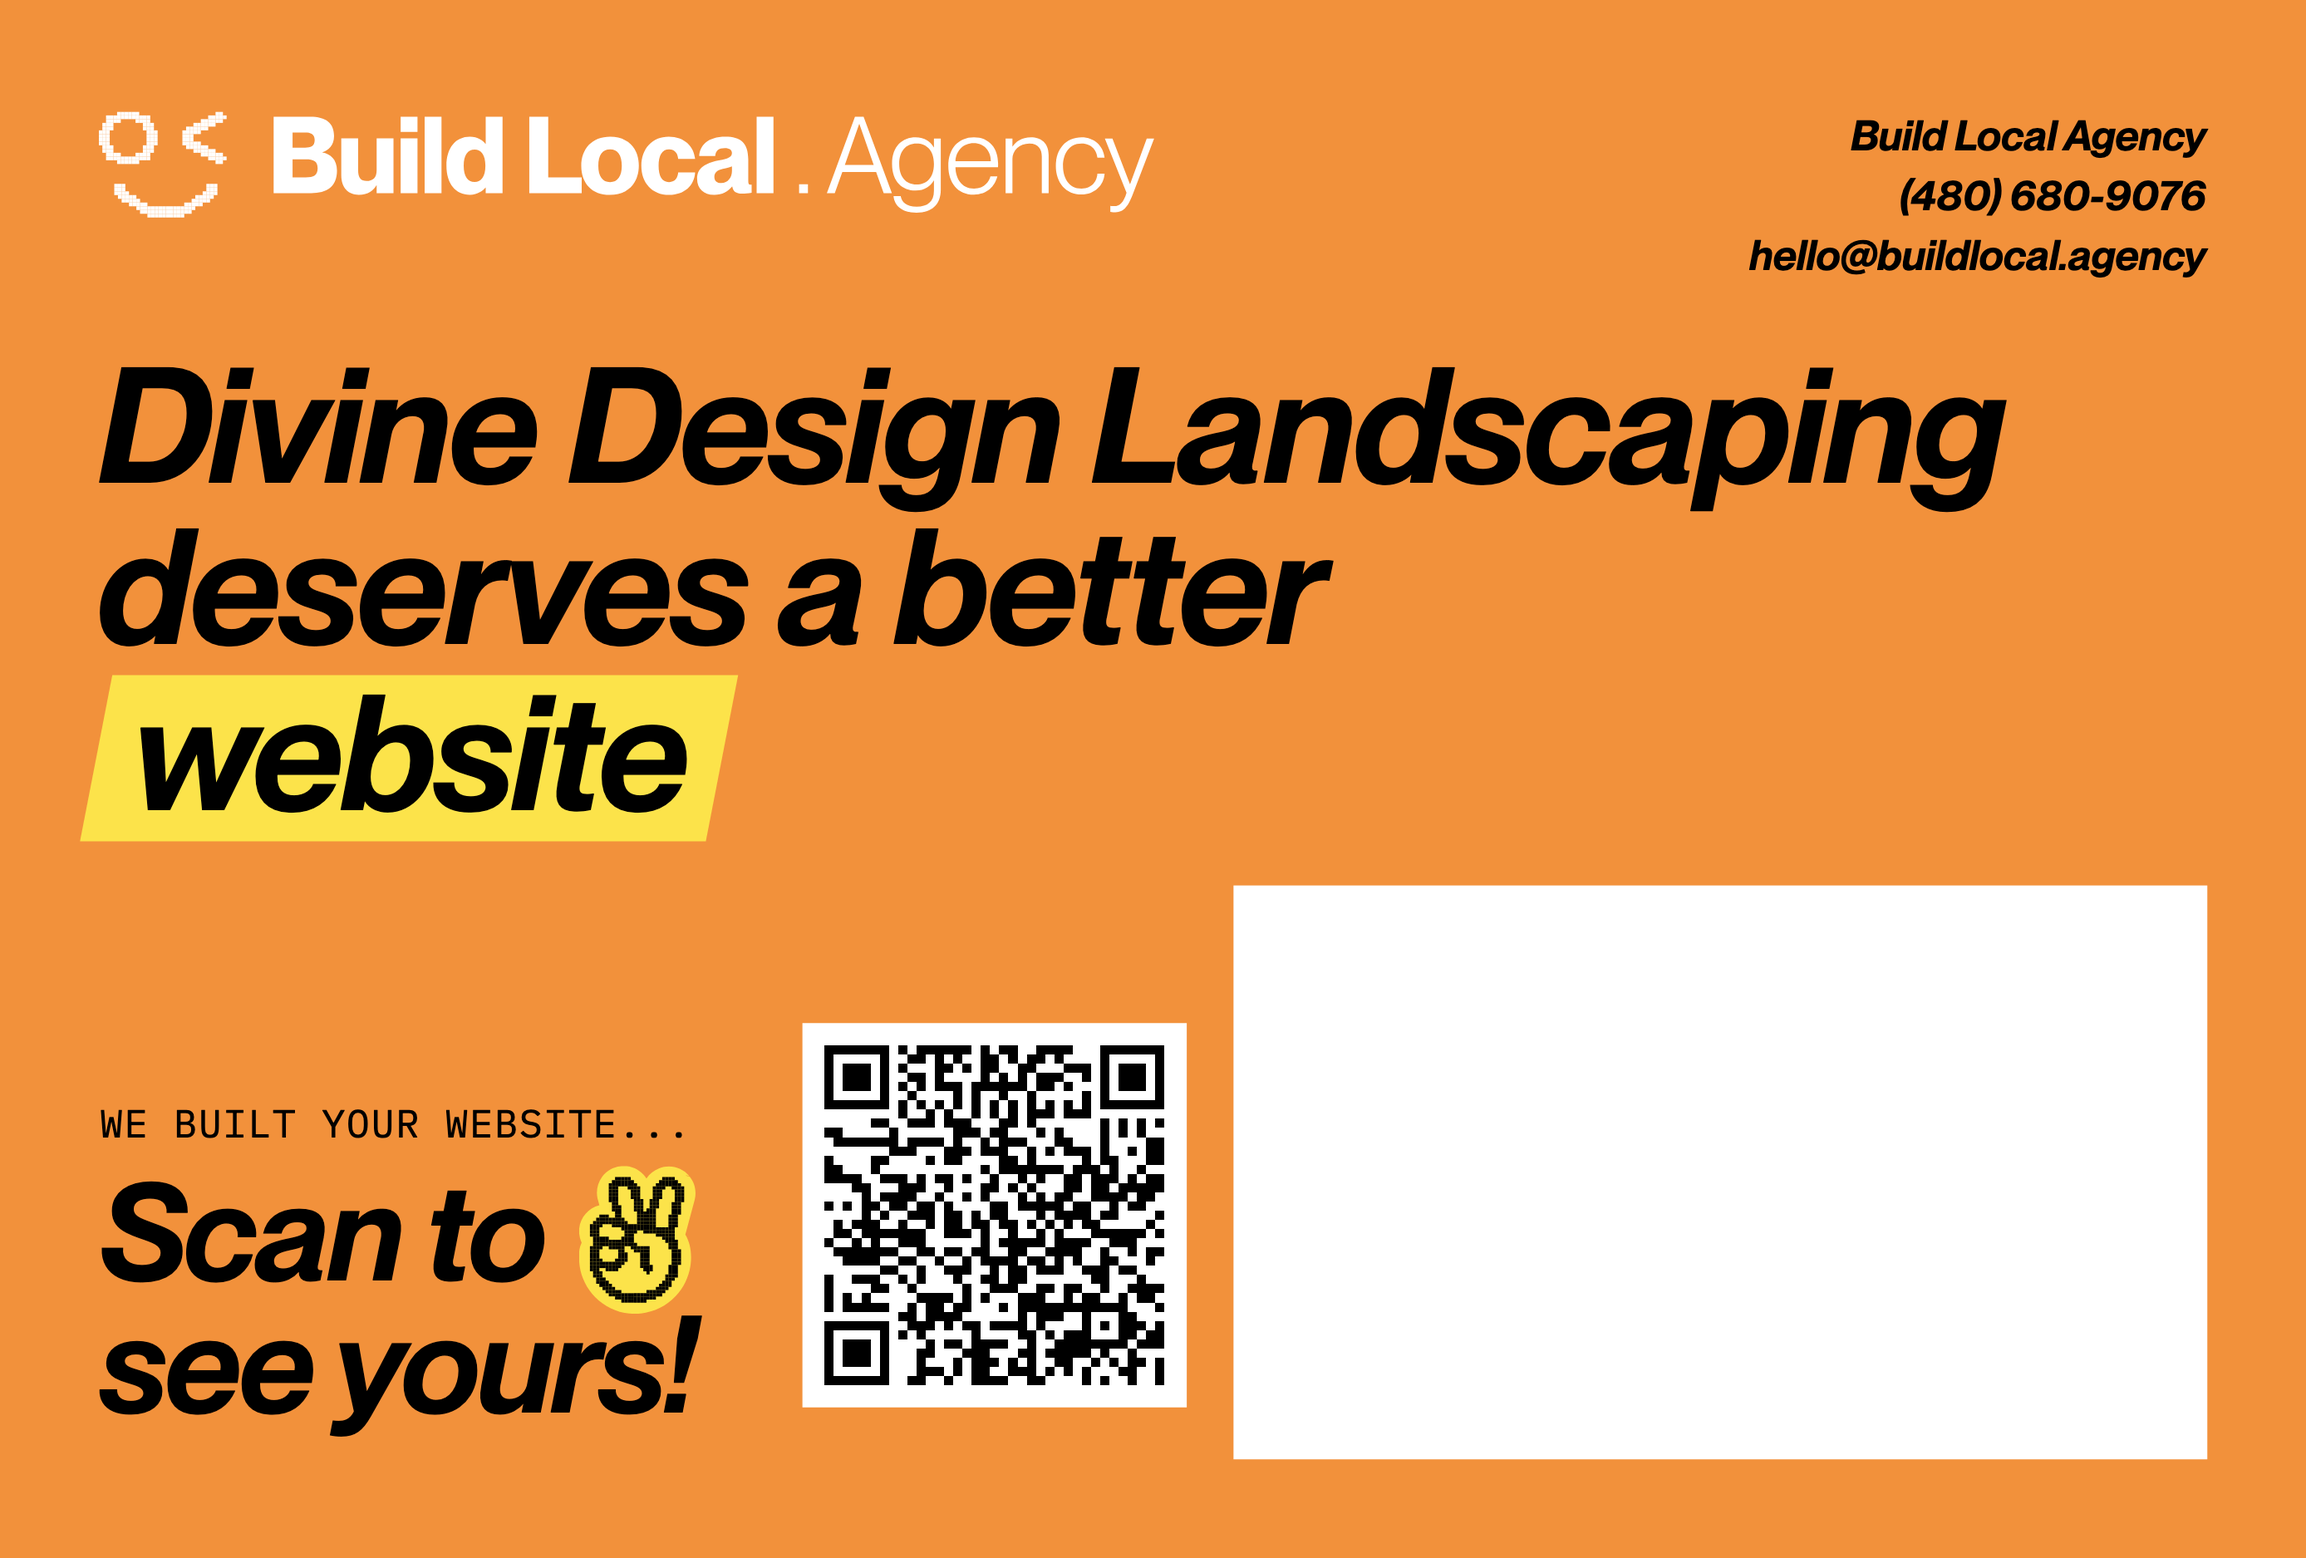
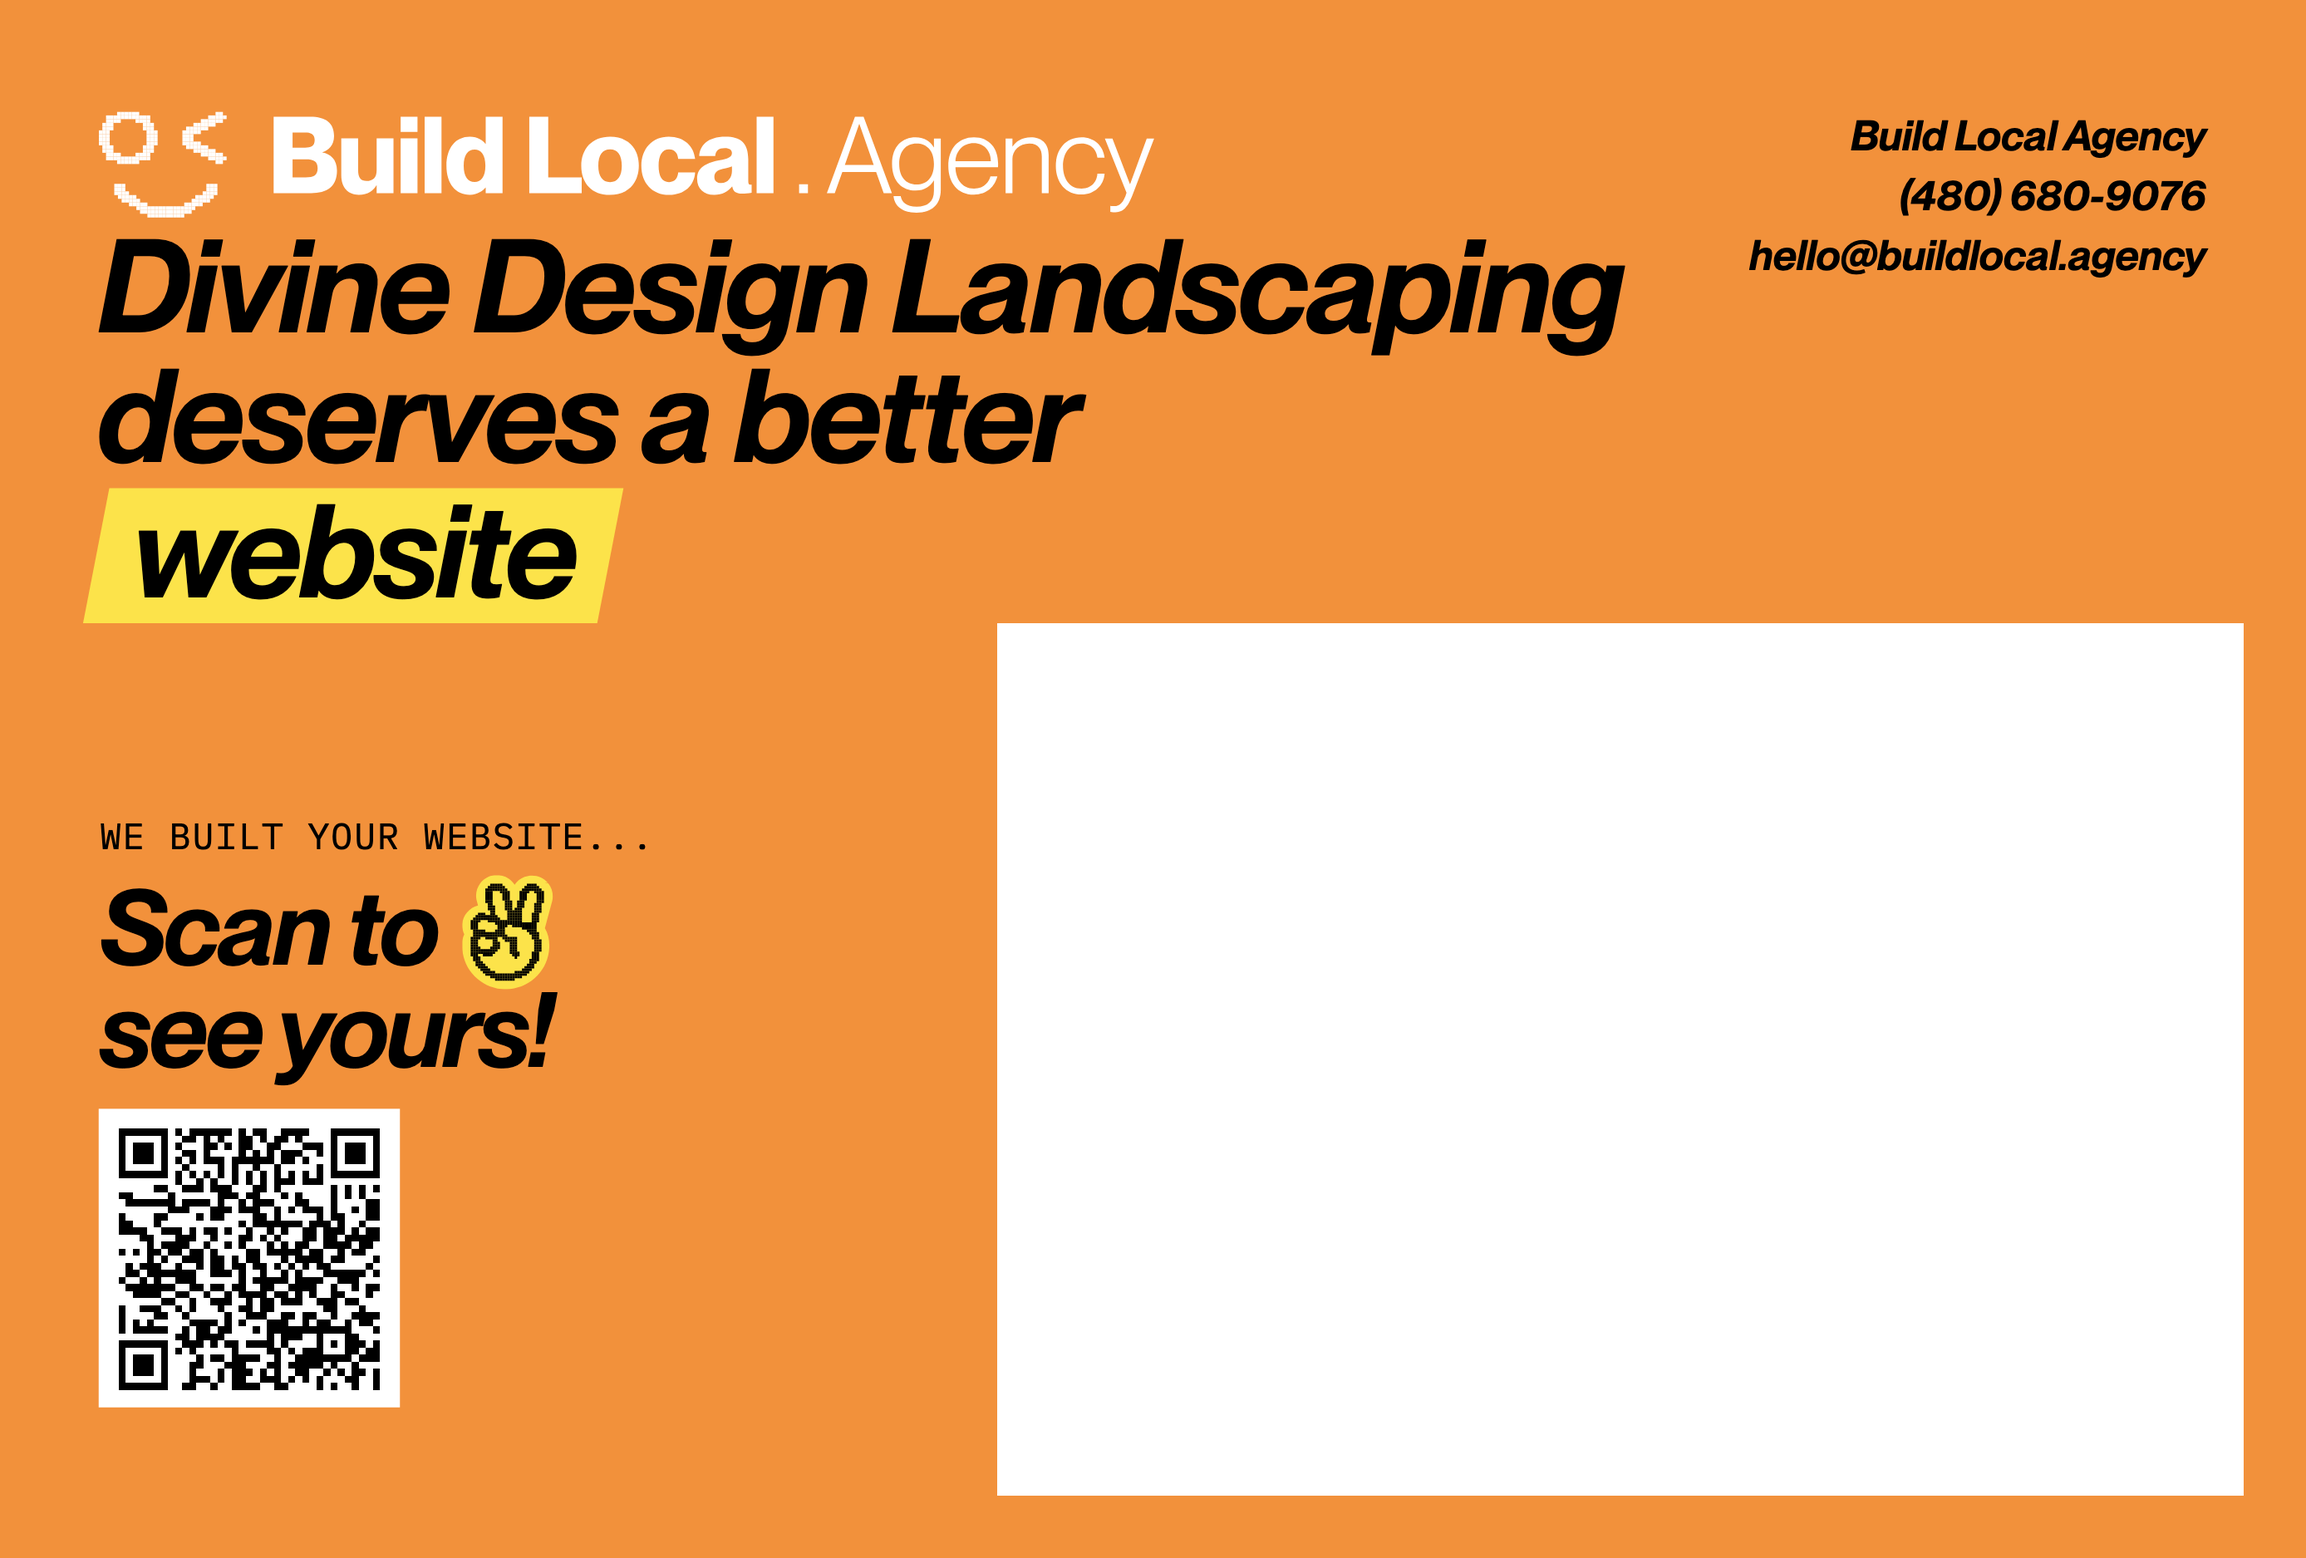
Flyer front: move headline up+smaller, shrink CTA, stack smaller QR under it, enlarge address zone to clear Lob's real address block

diff --git a/flyer/front.html b/flyer/front.html
@@ -25,26 +25,26 @@
   .contact { position: absolute; right: 0; top: 0.04in; text-align: right; font-style: italic; font-weight: 600; color: #000; font-size: 16px; line-height: 1.42; }
 
   /* --- Headline: 3 rows, ONE uniform size (scales down only for long names) --- */
-  .headline { position: absolute; left: -1px; top: 1.0in; font-style: italic; font-weight: 600; color: #000; letter-spacing: -1px; font-size: {{headline_font}}px; line-height: 0.99; }
+  .headline { position: absolute; left: -1px; top: 0.5in; font-style: italic; font-weight: 600; color: #000; letter-spacing: -1px; font-size: {{headline_font}}px; line-height: 0.99; }
   .headline .row { display: block; white-space: nowrap; }
   /* highlighted "website" — yellow angled box (parallelogram); text keeps the same italic lean as the rows above */
   .headline .hl { display: inline-block; position: relative; padding: 0 0.14in 0.03in; margin-top: 0.03in; }
   .headline .hl:before { content:''; position:absolute; inset:0; background:#FCE34A; transform: skewX(-11deg); z-index:-1; }
 
-  /* --- Scan CTA bottom-left --- */
-  .cta { position: absolute; left: 0; bottom: 0.16in; width: 2.95in; }
-  .cta .kicker { font-family:'IBM Plex Mono', monospace; font-weight:400; font-size:15px; letter-spacing:0.5px; text-transform:uppercase; color:#000; margin-bottom:0.07in; }
-  .cta .big { font-style: italic; font-weight: 600; font-size: 52px; line-height: 0.77; color:#000; letter-spacing:-1px; }
-  .cta .peace { display:inline-flex; align-items:center; vertical-align:-0.14in; margin:0 0.04in; }
-  .cta .peace img { height:0.6in; display:block; }
+  /* --- Scan CTA (lower-left, above the QR) --- */
+  .cta { position: absolute; left: 0; bottom: 1.55in; width: 3.3in; }
+  .cta .kicker { font-family:'IBM Plex Mono', monospace; font-weight:400; font-size:14px; letter-spacing:0.5px; text-transform:uppercase; color:#000; margin-bottom:0.06in; }
+  .cta .big { font-style: italic; font-weight: 600; font-size: 40px; line-height: 0.8; color:#000; letter-spacing:-1px; }
+  .cta .peace { display:inline-flex; align-items:center; vertical-align:-0.1in; margin:0 0.03in; }
+  .cta .peace img { height:0.46in; display:block; }
 
-  /* QR — centered in the lane between the CTA text and the ink-free zone, with
-     equal orange margin on both sides (CTA ends ~2.95in, ink-free starts 4.975in) */
-  .qr { position: absolute; left: 2.815in; bottom: 0.2in; width: 1.55in; height: 1.55in; background:#fff; padding:0.06in; }
+  /* QR — stacked directly UNDER the CTA text, left-aligned */
+  .qr { position: absolute; left: 0; bottom: 0.2in; width: 1.2in; height: 1.2in; background:#fff; padding:0.05in; }
   .qr img { width:100%; height:100%; display:block; }
 
-  /* === INK-FREE — Lob prints recipient address + postage here. LEAVE BLANK. === */
-  #ink-free { position: absolute; right: 0.4in; bottom: 0.4in; width: 3.9in; height: 2.3in; background:#fff; }
+  /* === INK-FREE — Lob prints recipient address + postage here (bigger than first
+     thought — sized to Lob's real address block). LEAVE BLANK. === */
+  #ink-free { position: absolute; right: 0.25in; bottom: 0.25in; width: 5in; height: 3.5in; background:#fff; }
 </style>
 </head>
 <body>
